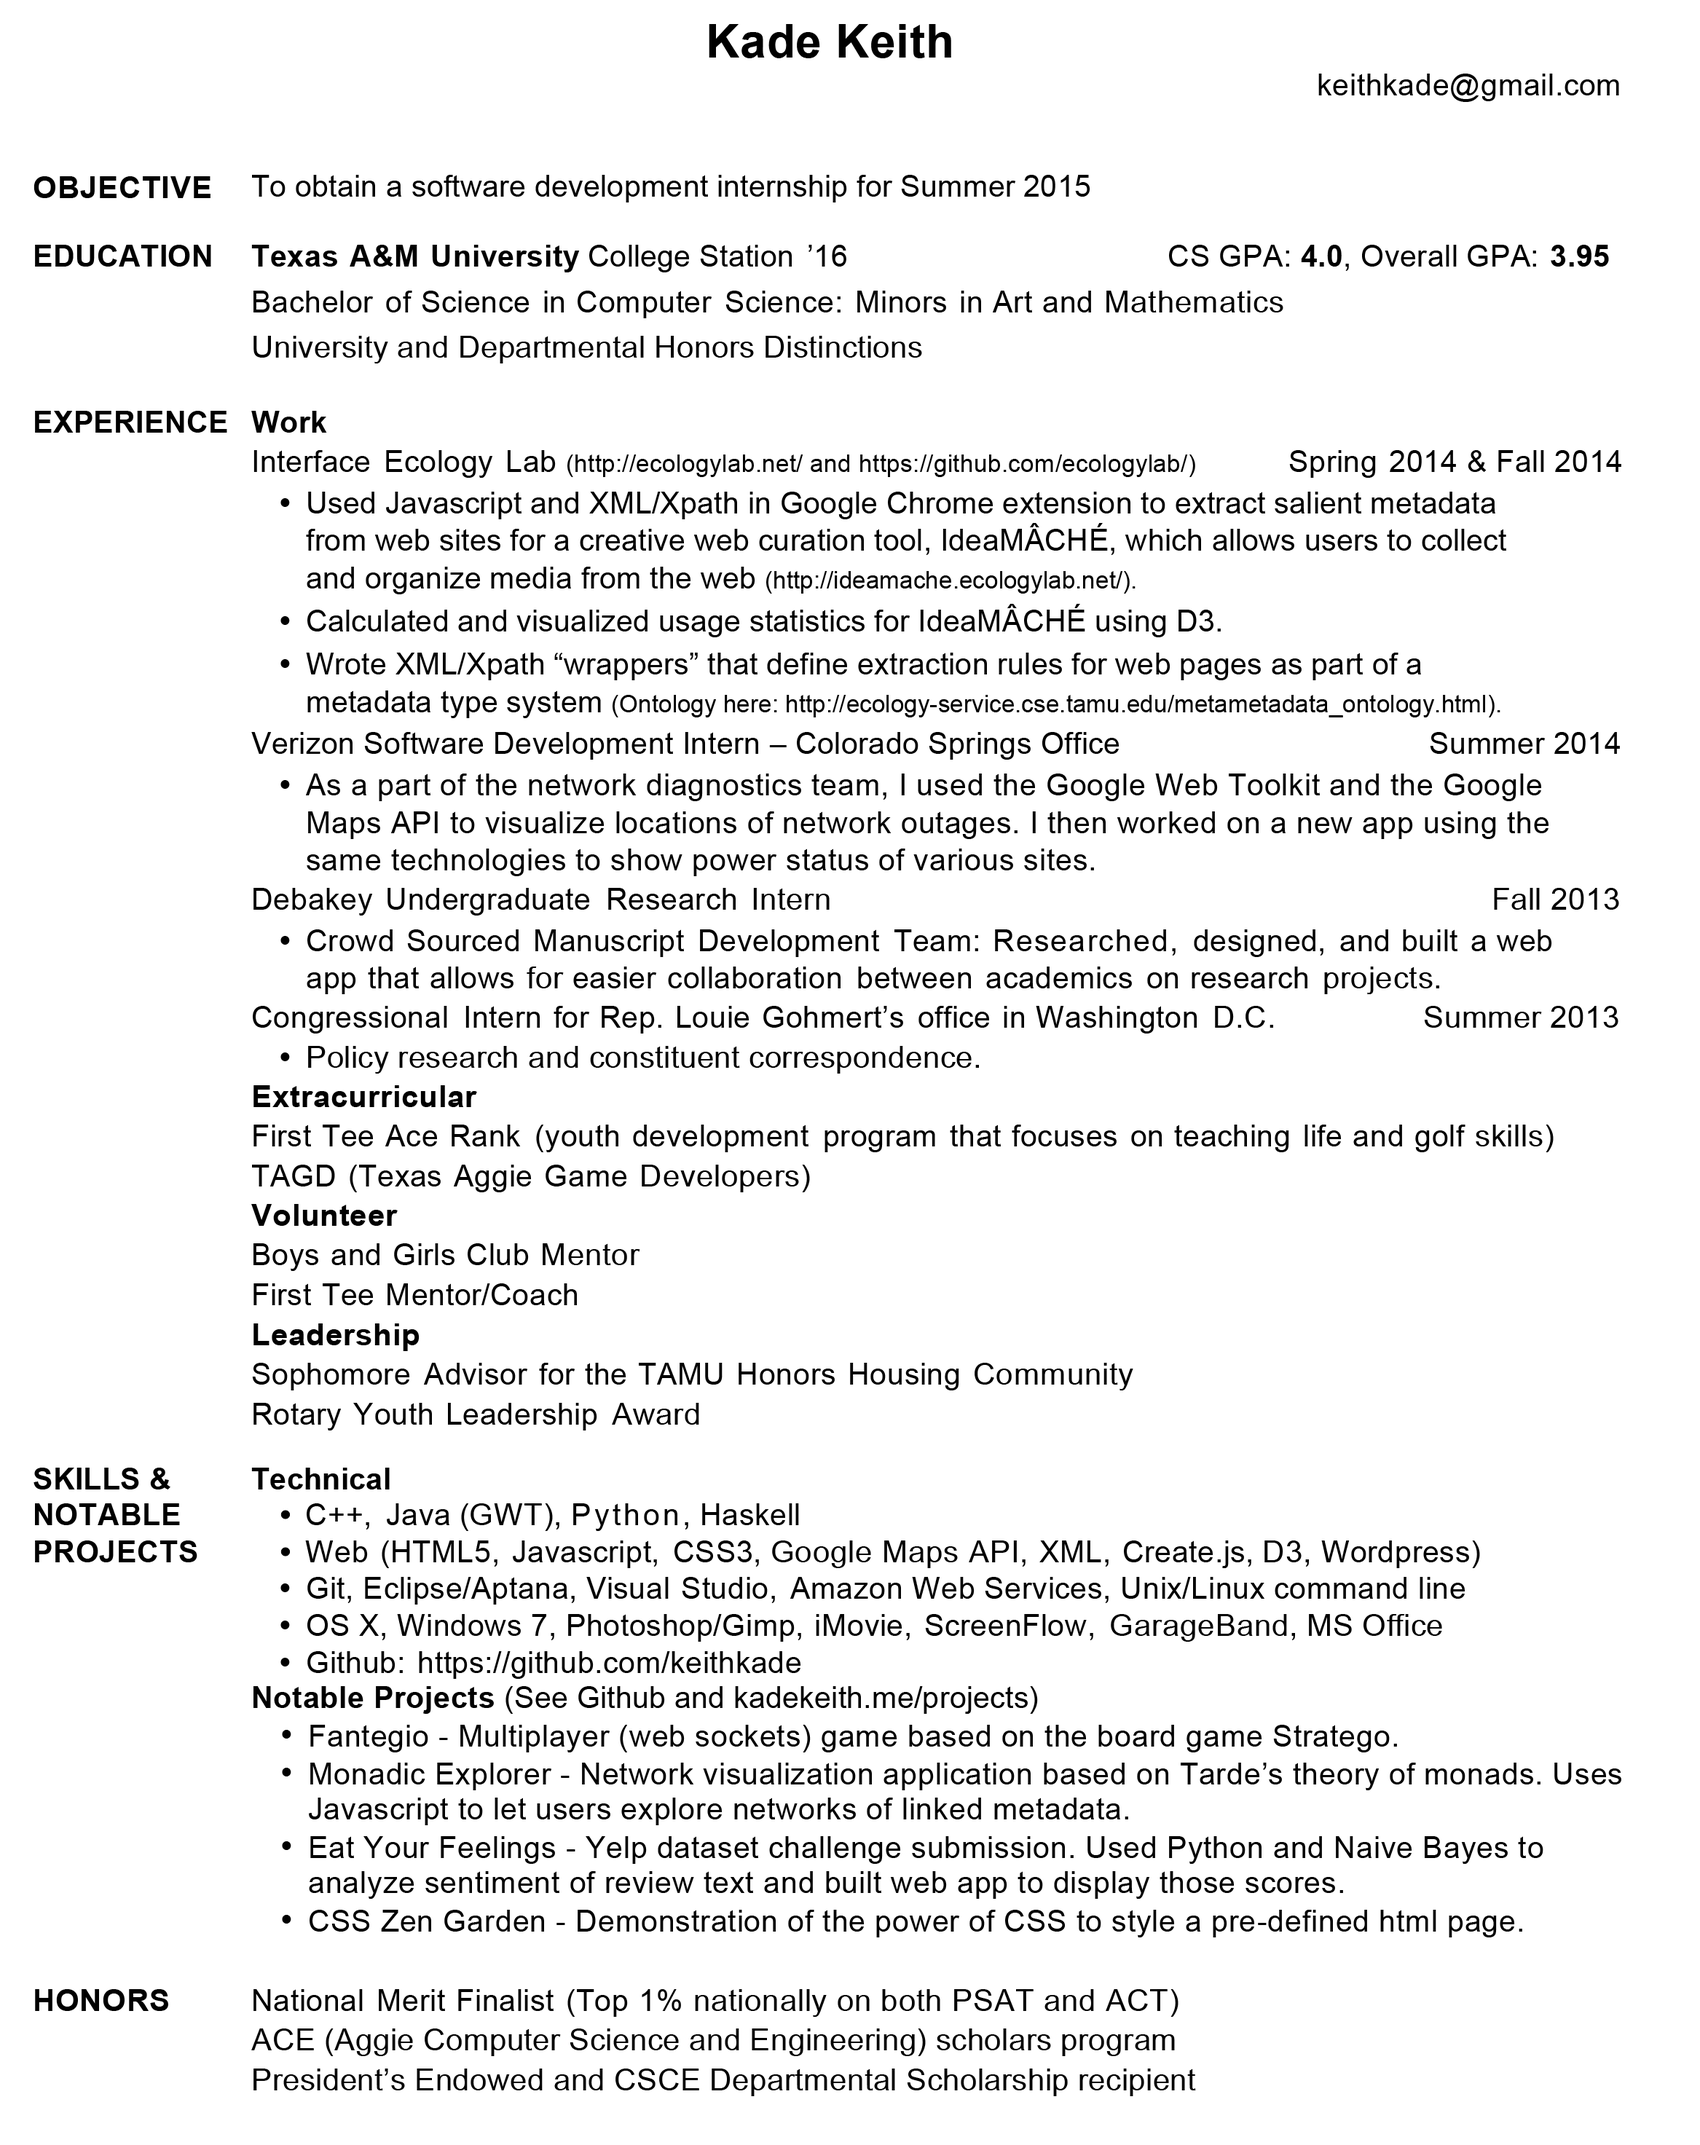
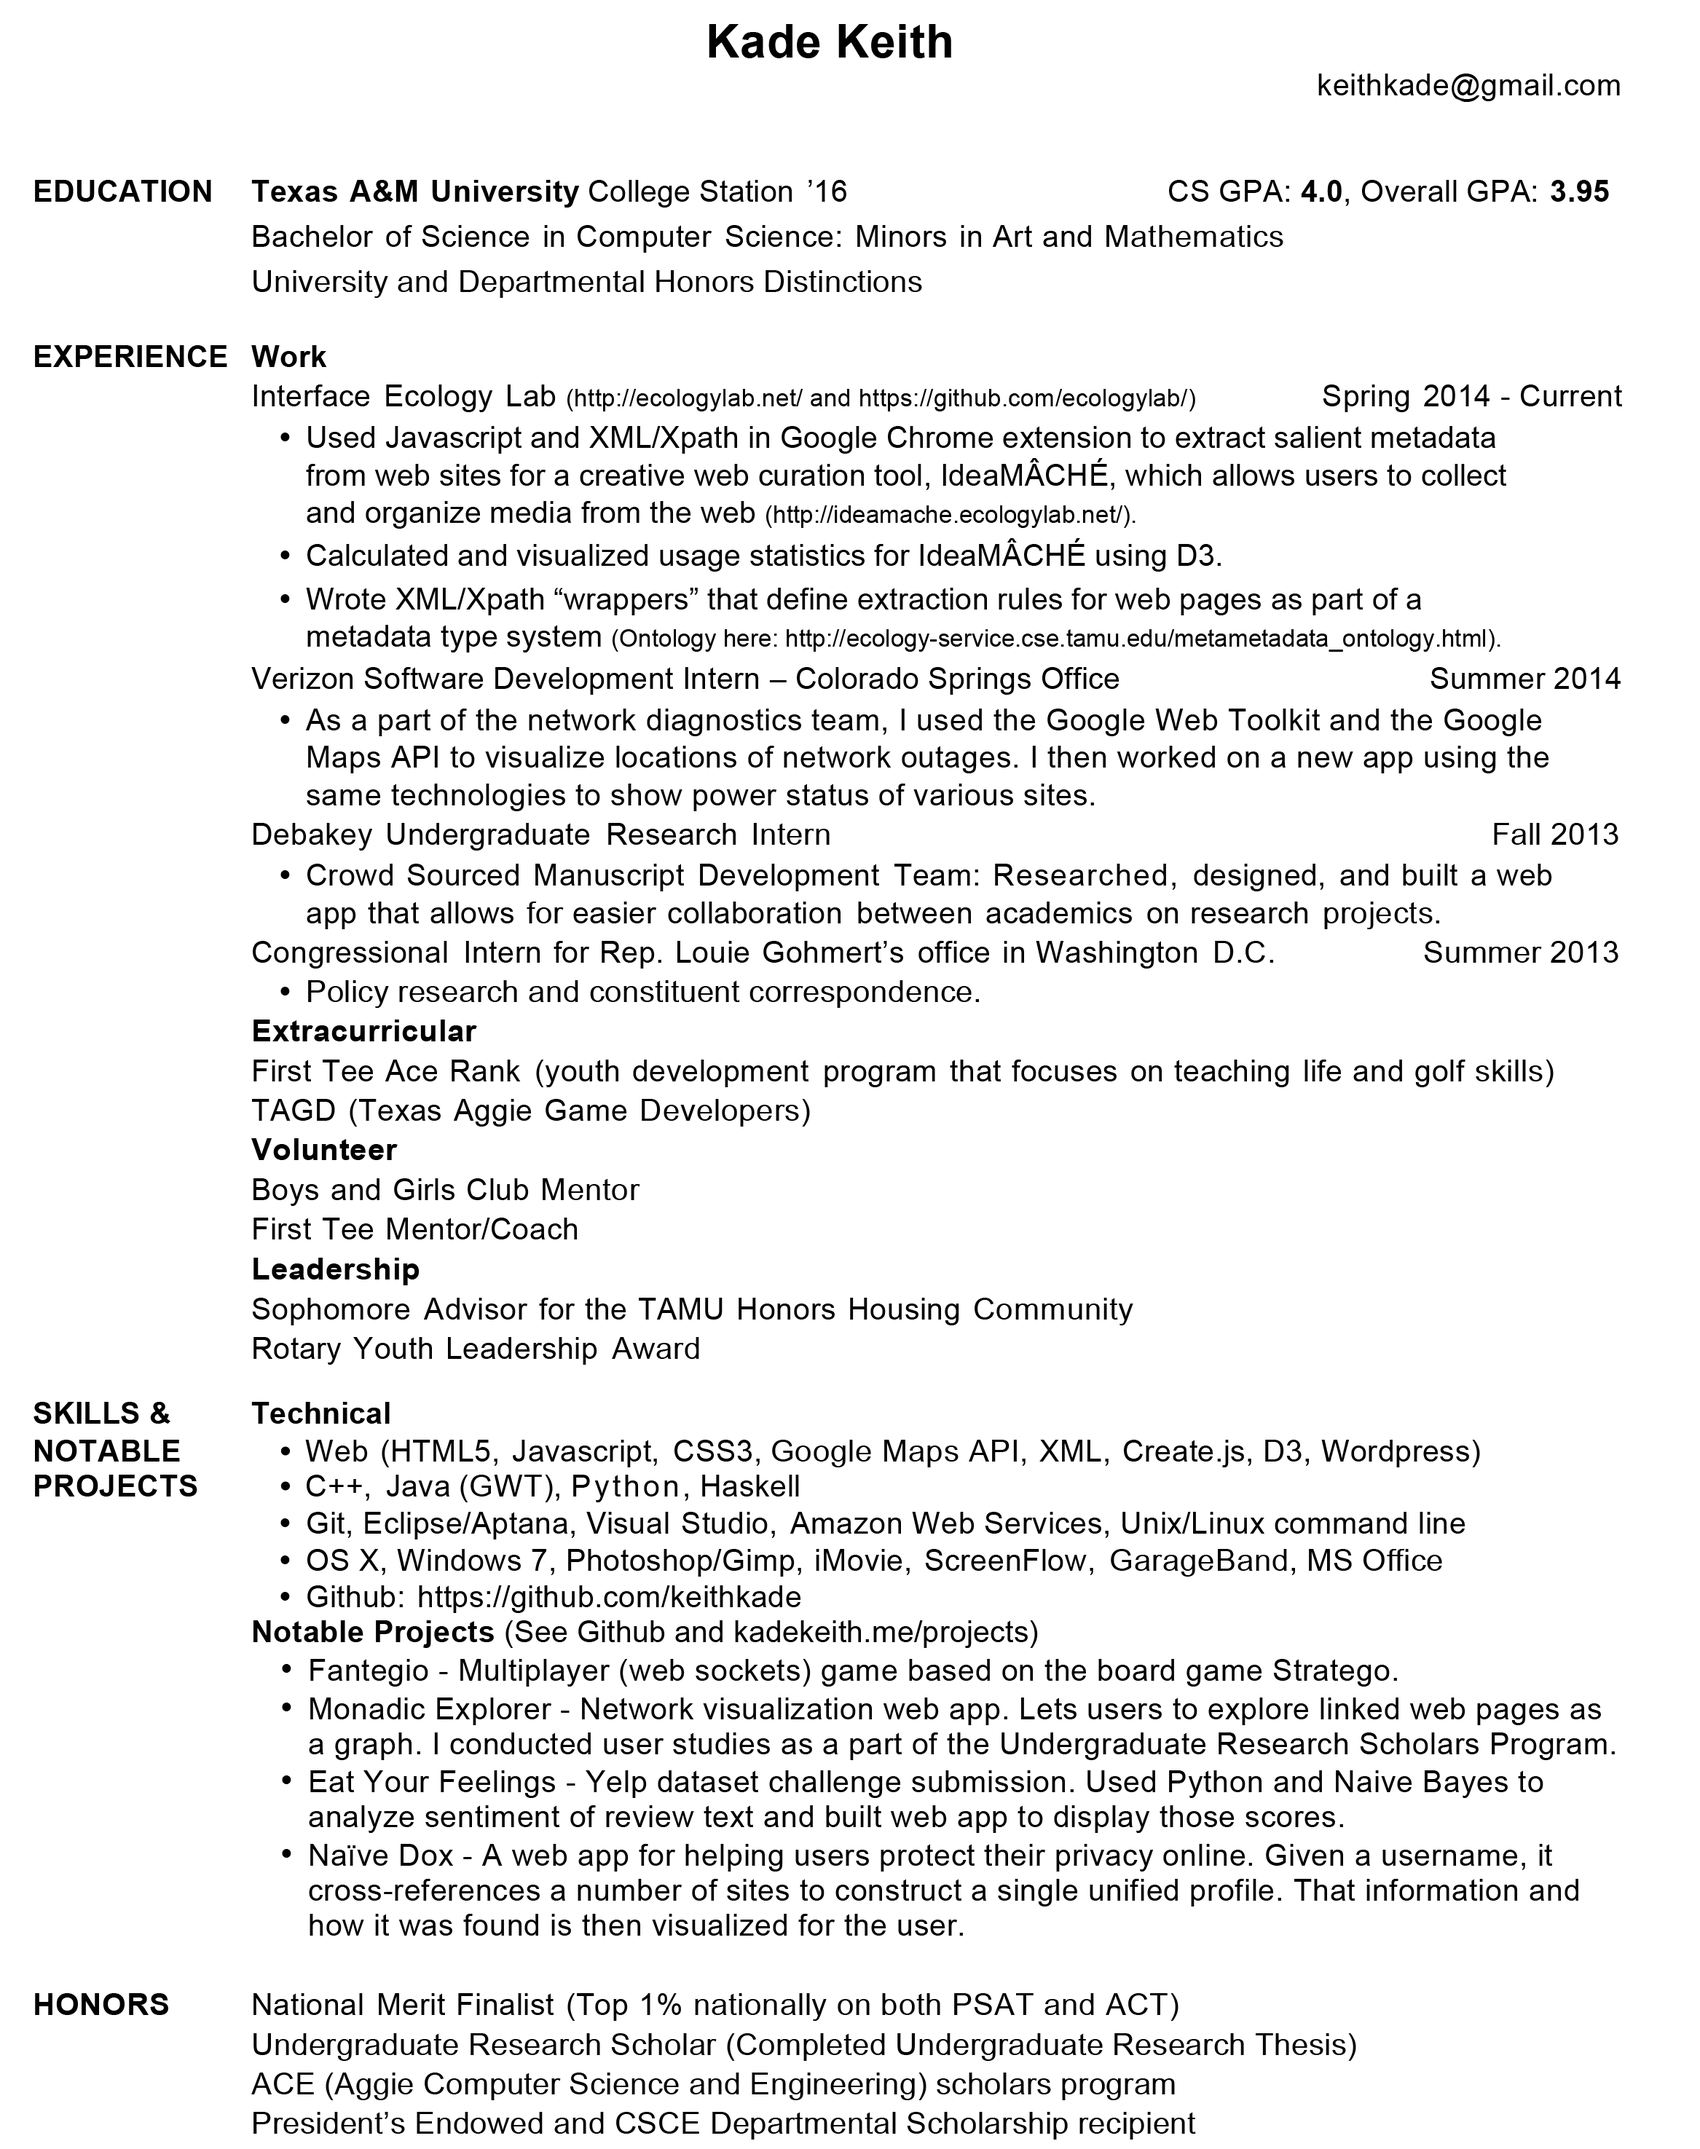
update projects and resume

diff --git a/projects/index.html b/projects/index.html
@@ -49,6 +49,10 @@
     #pugImg{
         margin-top: 10px;
     }
+    #dogImg {
+        margin-top: 10px;
+        width: 155px;
+    }
     #zenImg {
         margin-top: 10px;
         height: 100px;
@@ -131,6 +135,13 @@
                         <span class="tooltip">SEO<span>Search Engine Optimization</span></span> for my Information Storage and Retrieval class. Each student was tasked with making a web page for the nonsense term "vnuate klipuycate". To climb to the top, I used schema, meta tags, and links to/from peers sites to collectively boost my PageRank. As of 11-12-14 I am the top <a target="_blank" href="https://www.google.com/search?q=vnuate%20klipuycate">Google Search for vnuate klipuycate</a> out of a class of 30+ students. 
                     </p>
                 </div>
+                <div class="project">
+                <a class="projectTitle" target="_blank" href="http://naivedox.kadekeith.me"><h2>Naive Dox</h2>
+                    <img id="dogImg" src="http://michaelmaslin.com/inkspill/wp-content/uploads/2013/07/dog-on-the-internet-by-peter-steiner.jpg" title="On the Internet, nobody knows you're a dog"/></a>
+                    <p>
+                        This project was created by myself, Zach Brown, and Matthew Saari. It is meant to help internet citizens understand how anonymous they are online. Given a username or email, it cross-references a number of sites, gathering as much information as possible, to construct a single unified profile. It takes a multi-pass approach to doing so, so if it finds an email or real name, it will then query using that. We used apis when available coupled with xpath for data extraction. We look in particular for information that could be used to answer security questions and point that out to the user if we find it. I was the team leader and created the fronted in addition to a good portion of the server, which is in Python. 
+                    </p>
+                </div>                
                 <div class="project">
                     <a class="projectTitle" target="_blank" href="/projects/zenGarden/"><h2>CSS Zen Garden</h2>
                     <img id="zenImg" src="zenGarden/flowerWhite.png"/></a>

diff --git a/projects/NaiveDox/index.html b/projects/NaiveDox/index.html
@@ -18,7 +18,7 @@
         </p>
         <p id="intro">
             <img id="dawg" src="http://upload.wikimedia.org/wikipedia/en/f/f8/Internet_dog.jpg"/>
-            It is meant to help users internet citizens understand how anonymous they are online. A common perception among users on the Internet is that when they are not using their real name and instead use a “handle” or username that they made up, they are anonymous. This mindset is dangerous, as many internet users inadvertently reveal much more about themselves than they realize, leaving themselves to open to social engineering attacks. The process of looking up and releasing personally identifiable information about someone online is called "doxxing." 
+            It is meant to help internet citizens understand how anonymous they are online. A common perception among users on the Internet is that when they are not using their real name and instead use a “handle” or username that they made up, they are anonymous. This mindset is dangerous, as many internet users inadvertently reveal much more about themselves than they realize, leaving themselves to open to social engineering attacks. The process of looking up and releasing personally identifiable information about someone online is called "doxxing." 
         </p>
         <p>
             Our application automates that process. Given a username or email, it queries sites like Facebook, Twitter, Github, and Flickr and constructs a single unified profile for that username or email. Oftentimes, users inadvertantly de-anonymize themselves online by reusing a username accross different sites. 
